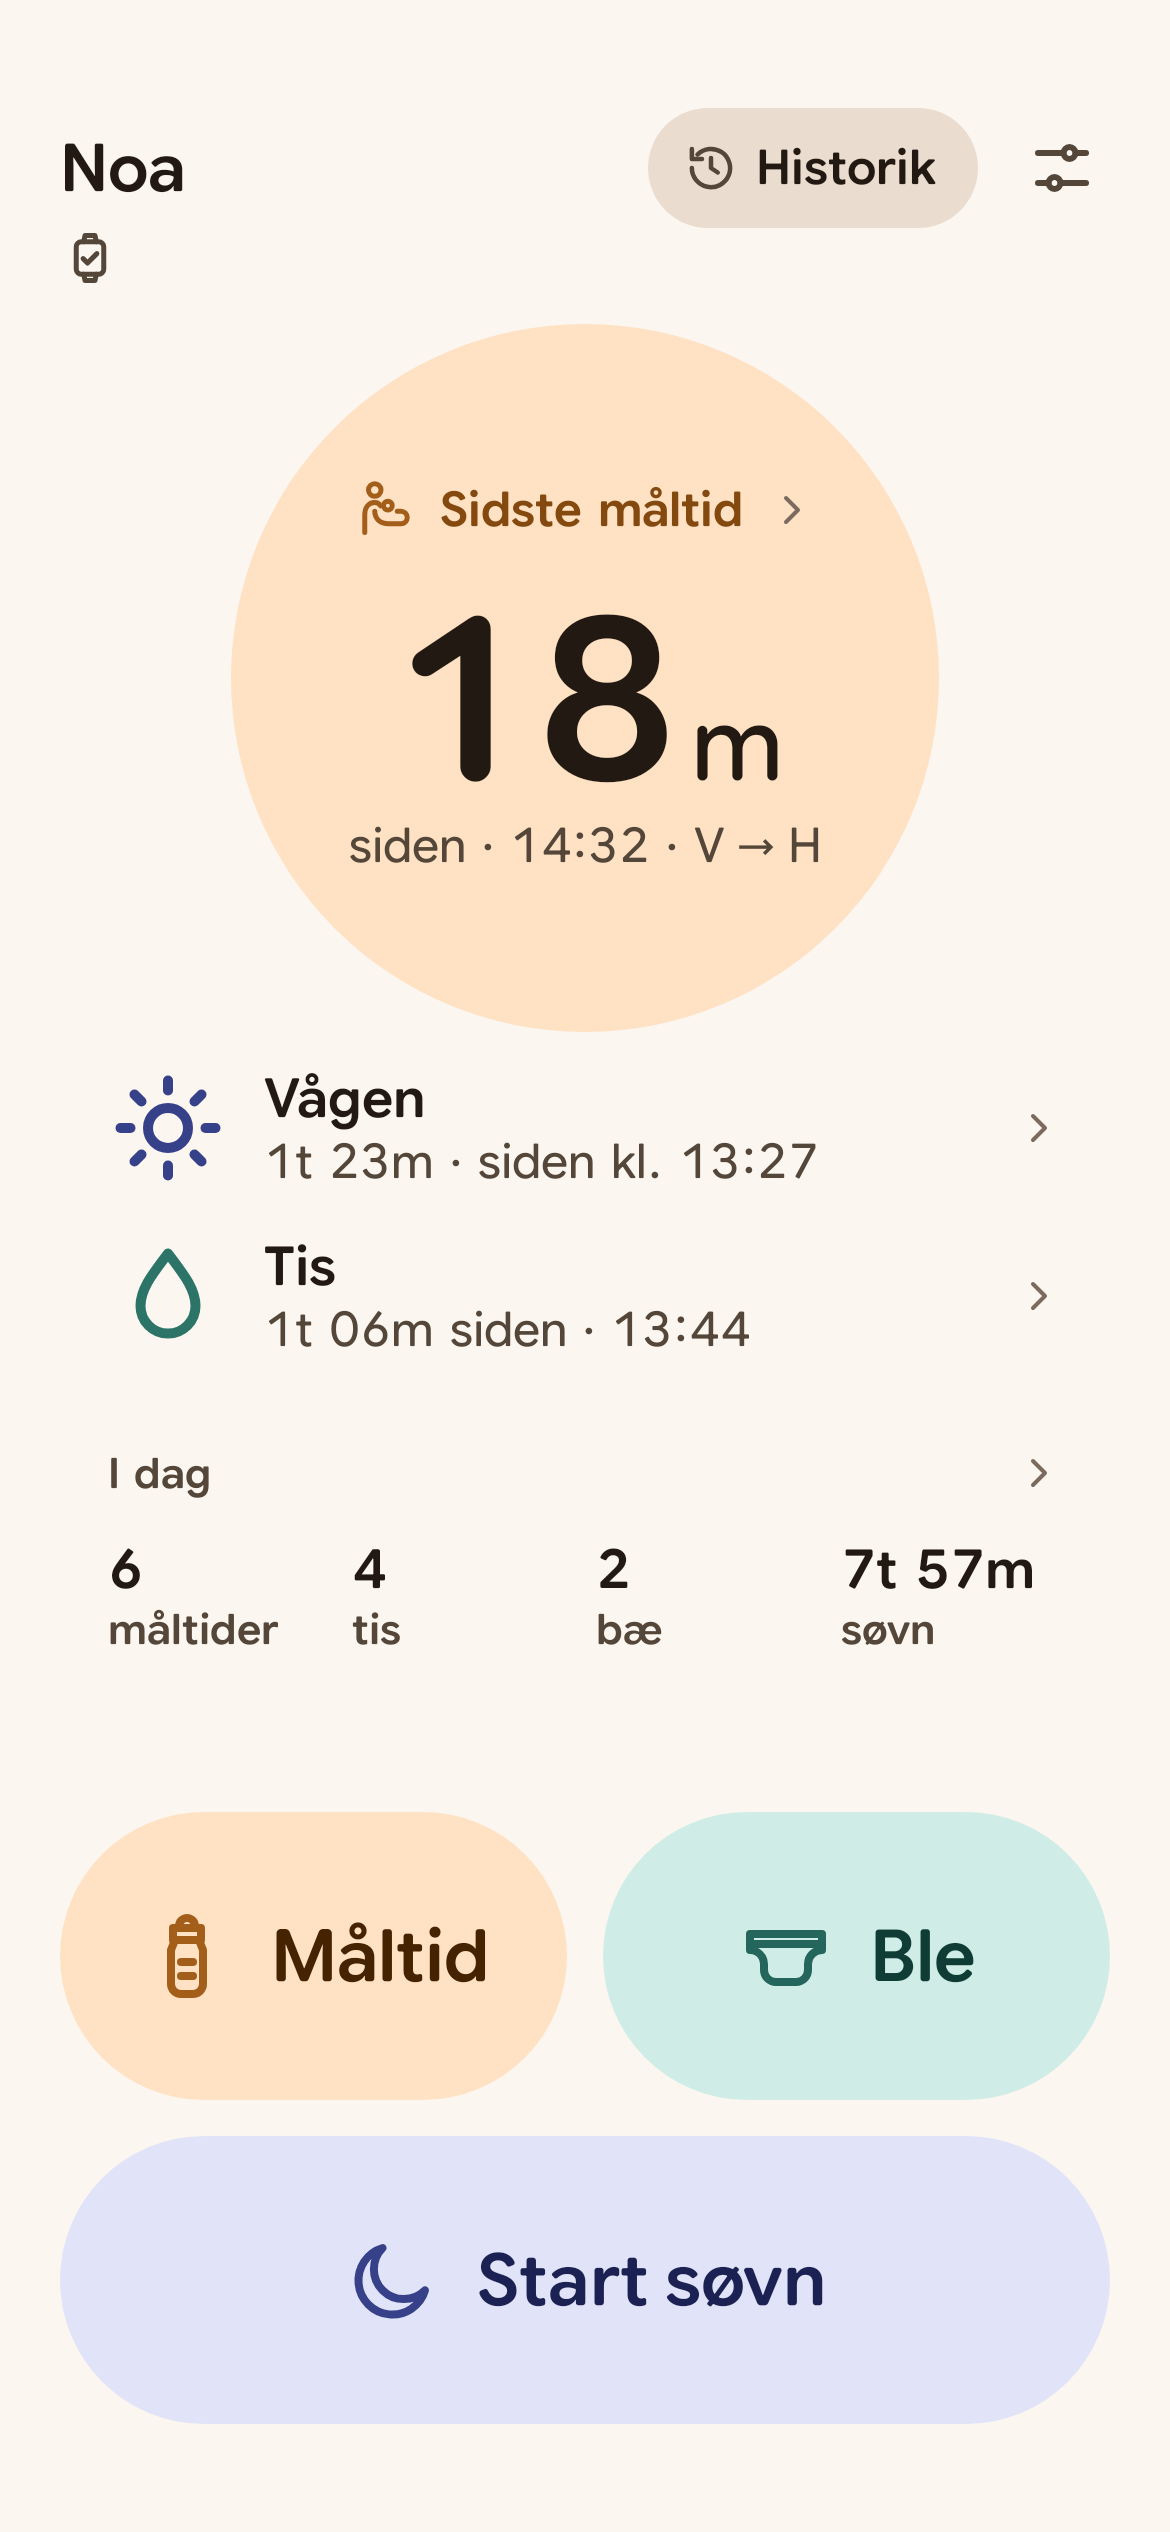
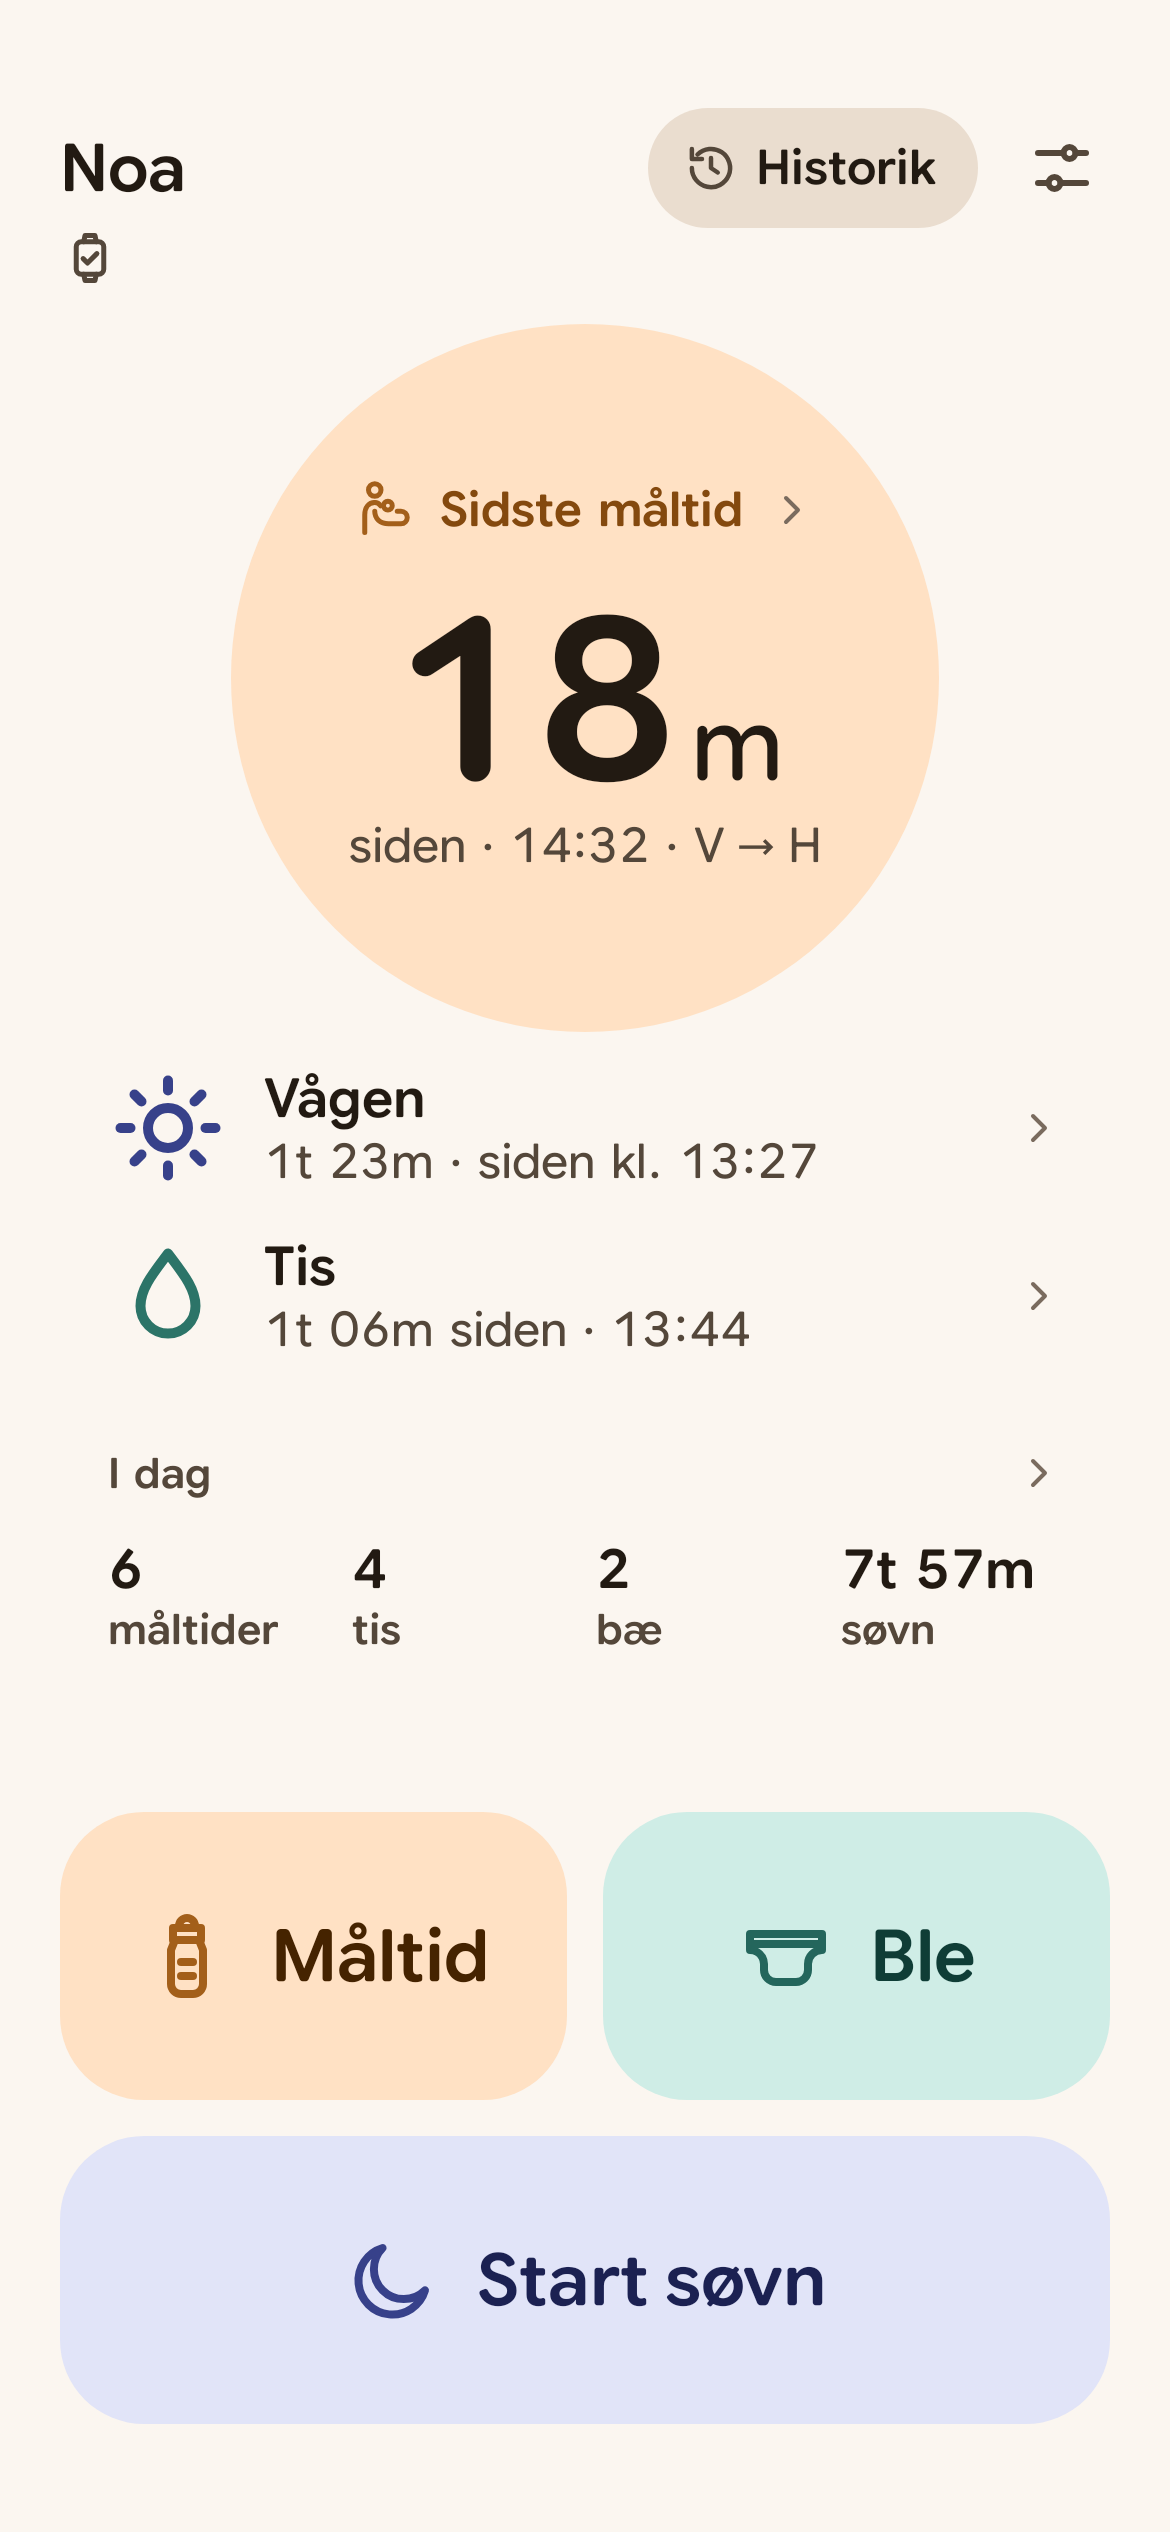
Give the Home big buttons r 28 corners instead of a full pill (#58)
* Give the Home big buttons r 28 corners instead of a full pill

A 96 dp tall button with r 48 curves in so far that the label and the
forecast crowd its edge ("bæ 8t 40m siden" on the Diaper button).

Claude-Session: https://claude.ai/code/session_01KD7sVknc5jv3jpUuQdfnPY

* Re-record the screenshots

---------

diff --git a/app/src/main/kotlin/com/ffmathy/pooparazzi/phone/ui/components/BigButton.kt b/app/src/main/kotlin/com/ffmathy/pooparazzi/phone/ui/components/BigButton.kt
@@ -40,7 +40,8 @@ object BigButtonDefaults {
 
     /** On a short screen (the Lamp already at its minimum size) the buttons give up 16 dp each before Home scrolls. */
     val CompactHeight: Dp = 80.dp
-    val PillRadius: Dp = 48.dp
+    /** Rounded rectangle, not a full pill: a 48 dp pill curves in so far that the label and forecast crowd its edge. */
+    val Radius: Dp = 28.dp
     val IconSize: Dp = 32.dp
 }
 
@@ -63,7 +64,7 @@ fun BigButton(
     container: Color,
     labelColor: Color,
     modifier: Modifier = Modifier,
-    radius: Dp = BigButtonDefaults.PillRadius,
+    radius: Dp = BigButtonDefaults.Radius,
     border: BorderStroke? = null,
     onClickLabel: String? = null,
     semantics: (SemanticsPropertyReceiver.() -> Unit)? = null,

diff --git a/docs/design/DESIGN_SPEC.md b/docs/design/DESIGN_SPEC.md
@@ -298,13 +298,13 @@ Receipt rules:
 - Disabled: label and border at 0.38 opacity.
 - Single-select chips expose a selected state.
 
-**Feed and Diaper buttons**: 169 × 96, full pill r 48 (pressed or not: the ripple shows the press). Fill FEED / DIAPER container. Content row: icon 32 (event strong) + 12 + headlineSmall "Feed" / "Diaper" (event onContainer). **Unchanged in lights-down.**
+**Feed and Diaper buttons**: 169 × 96, r 28 (pressed or not: the ripple shows the press). Fill FEED / DIAPER container. Content row: icon 32 (event strong) + 12 + headlineSmall "Feed" / "Diaper" (event onContainer). **Unchanged in lights-down.**
 
 **Forecast line**: under the label of Feed, Diaper and the Sleep toggle, what the last 7 days expect next ("in 1h 05m"; Diaper "poop in 3h", or, when poop keeps to the feeds rather than a gap, the poop expected after the last feed; Woke up the expected wake-up), and once that has passed, how long ago it was due ("24m ago"). The label and the forecast line are start-aligned 12 dp after the icon; icon and text are centred in the button as one group. See V1_ADDITIONS §9, which also puts the estimates on the 4×2 widget and the watch.
 
 **Sleep toggle**: 350 × 96, a button whose name changes with its state (it exposes no separate on/off state; §9.4).
-- Unchecked: r 48, SLEEP container, `sleep` 32 SLEEP strong + 12 + "Start sleep" headlineSmall SLEEP onContainer.
-- Checked: r 48 (the shape stays; fill, border and icon tell the state), SLEEP containerLit, 2 dp SLEEP strong border, `wake` 32 + "Woke up". Day has no containerLit: it uses SLEEP container + the border.
+- Unchecked: r 28, SLEEP container, `sleep` 32 SLEEP strong + 12 + "Start sleep" headlineSmall SLEEP onContainer.
+- Checked: r 28 (the shape stays; fill, border and icon tell the state), SLEEP containerLit, 2 dp SLEEP strong border, `wake` 32 + "Woke up". Day has no containerLit: it uses SLEEP container + the border.
 
 
 **Home states**
@@ -919,8 +919,8 @@ The watch, tile and complications use GSF ROND 0 only as the mockup stand-in for
 | Element | Phone | Watch |
 |---|---|---|
 | Lamp | Ø264; ring r 129, track 6; ember Ø10; tail 48° | outer Ø126; ring r 60.5, track 5; ember Ø8; tail 48° |
-| Feed / Diaper buttons | 169 × 96, full pill r 48 | 98 × 60, r 26 |
-| Sleep toggle | 350 × 96; r 48, checked or not | EdgeButton Medium 70 (system shape, 143 wide D-shape; content area ≈ 99 × 56, so the icon is stacked over the label) |
+| Feed / Diaper buttons | 169 × 96, r 28 | 98 × 60, r 26 |
+| Sleep toggle | 350 × 96; r 28, checked or not | EdgeButton Medium 70 (system shape, 143 wide D-shape; content area ≈ 99 × 56, so the icon is stacked over the label) |
 | EdgeButton Small | — | 56 (content ≈ 92 × 42; icon + label in a row; Undo only) |
 | Tile EdgeButton | — | 46 drawn, 48 hit box |
 | Diaper tiles | 106 × 128, r 28 | 62 × 88, r 31 |
